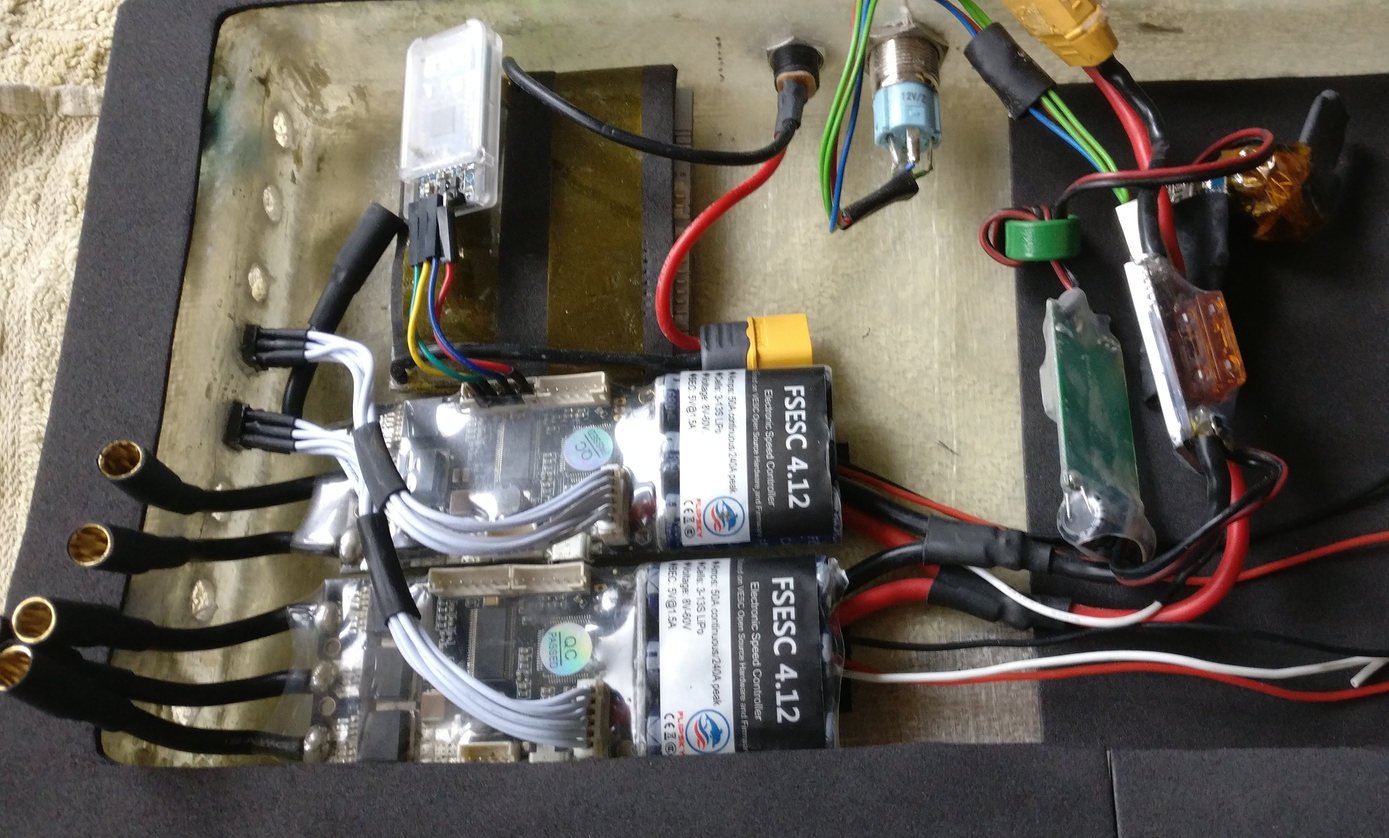
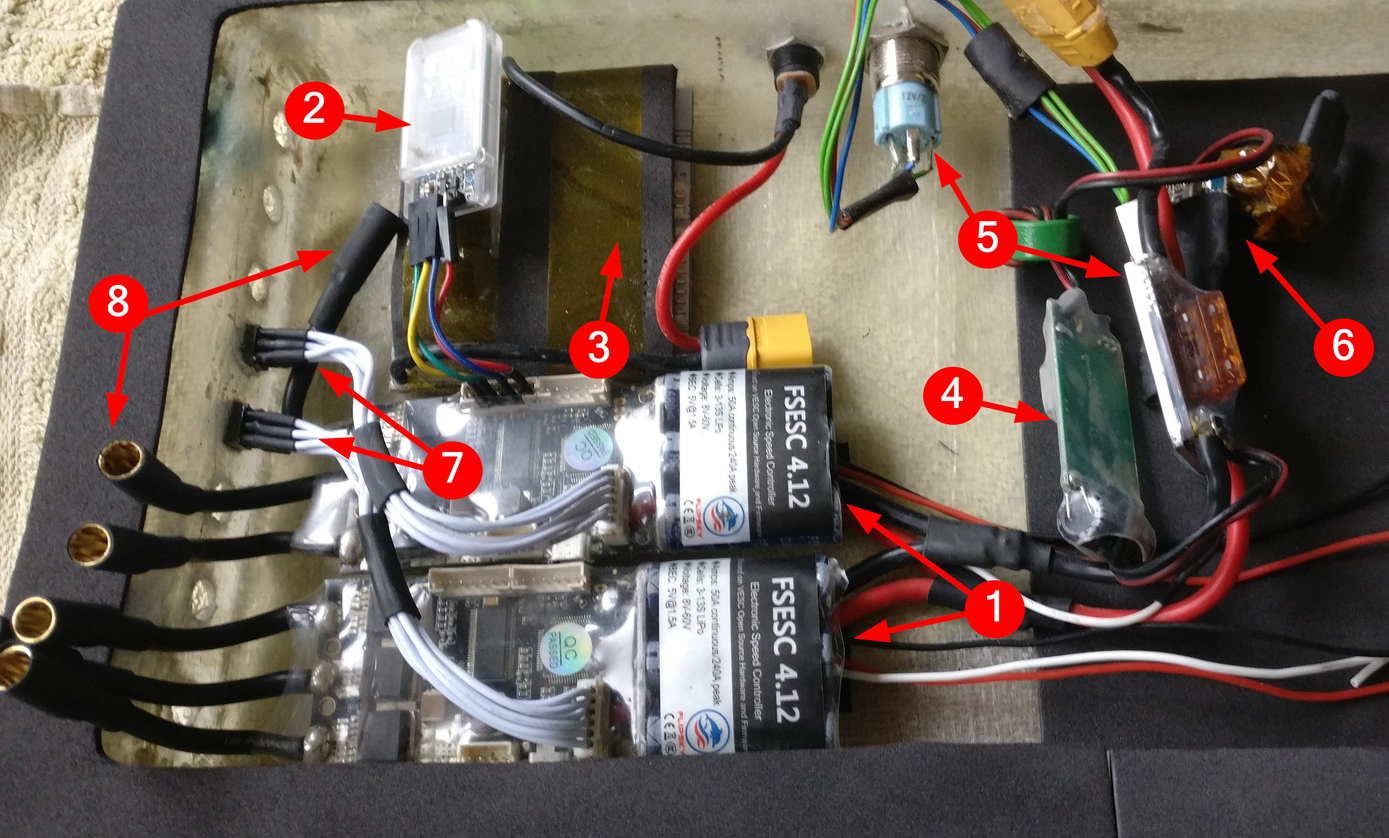
Numbers

diff --git a/chapters/4_mechanics.tex b/chapters/4_mechanics.tex
@@ -61,13 +61,19 @@
 		Aufgrund des quadratischen Zusammenhangs des Strömungswiderstands mit der Geschwindigkeit nach \cref{eq:air drag} ist der \(F_\text{Ström}\) zuzuordnende Anteil im zweiten Fall zu vernachlässigen.
 
 		Um abzuschätzen, bei welcher Geschwindigkeit der Strömungswiderstand gegenüber dem Rollwiderstand an Relevanz gewinnt, ist in \cref{fig:Froll vs Fdrag} das Verhältnis beider Kräfte über der Geschwindigkeit in~\unit{\kilo\metre\per\hour} aufgetragen.
+		Der Kurvenverlauf folgt der Gleichung
+		\begin{align}
+			\frac{F_\text{Ström}}{F_\text{Roll}}(v) = \frac{c_\text{Ström} \; \rho \; A}{2m \; g \; c_\text{Roll}} v^2
+			\label{eq:F_drag F_roll ratio over speed}
+		\end{align}
+		mit verwendeten Werten wie aus \cref{tab:drag roll values} zu entnehmen~\cites{GESTIS.Luft}{air.drag.human.body.VANINGENSCHENAU1982}{material.advances.skateboarding.WATERMAN1978}.
+
 		Ab einer Geschwindigkeit von etwa \qty{42}{\kilo\metre\per\hour} beginnt der Strömungswiderstand zu dominieren und es wird die Annahme getroffen, dass bei \qty{10}{\kilo\metre\per\hour}, was etwa doppelter Schrittgeschwindigkeit\footnote{\hspace{1mm} ``Schrittgeschwindigkeit'' ist kein wohl definierter Begriff. Onlinerecherchen lieferten Werte im Bereich \qtyrange{5}{7}{\kilo\metre\per\hour}.} entspricht, der Beitrag des Strömungswiderstandes nahezu verschwindet.
-		Die verwendeten Werte sind \cref{tab:drag roll values} zu entnehmen~\cites{GESTIS.Luft}{air.drag.human.body.VANINGENSCHENAU1982}{material.advances.skateboarding.WATERMAN1978}.
 
 		% Darüber hinaus sind elektrische Verluste etwa im Serienwiderstand der Batterie, in der Leistungselektronik und bei der Ummagnetisierung der Phasenwicklungen im Motor zu berücksichtigen.
 		% Da diese im Einzelnen jedoch nur schwer quantifiziert werden können, sollen sie sich im Wirkungsgrad \(\eta\)\nomenclature[G]{\(\eta\)}{Wirkungsgrad\nomunit{1}}, der das Verhältnis aus abgerufener elektrischer Leistung zu umgesetzter mechanischer Leistung bildet, widerspiegeln.\par\medskip
 		%
-		\newpage
+		% \newpage
 		\begin{figure}[h]
 			\centering
 			\includesvg[width=\textwidth, inkscapelatex=false]{Calc/Fdrag-Froll_vs_velocity}
@@ -101,8 +107,10 @@
 					\toprule
 					Größe\hspace{1cm}								& Wert\\ \midrule
 					\(A\)\tnote{a}\hspace{1cm}						& \qty{0,293}{\metre\squared}\\
+					\(g\)											& \qty{9,81}{\metre\per\second\squared}\\
 					\(c_\text{Roll}\)\hspace{1cm}					& \num{0,022}\\
 					\(c_\text{Ström}\)\tnote{a}\hspace{1cm}			& \num{0,872}\\
+					\(m\)											& \qty{100}{\kilo\gram}\\
 					\(\rho\)\tnote{b}\hspace{1cm}					& \qty{1,293}{\kilo\gram\per\metre\cubed}\\ \bottomrule
 				\end{tabular}
 				\begin{tablenotes}\footnotesize

diff --git a/chapters/2_conception.tex b/chapters/2_conception.tex
@@ -108,7 +108,7 @@
 			\begin{figure}[h]
 				\centering
 				\includegraphics[width=.9\textwidth]{Footage/Pictures/Electronics.jpg}
-				\caption[Eingesetzte ESC]{Unten im Bild die beiden eingesetzten ESC vom Typ \textsc{FSESC 4.12}. Weiterhin im Bild zu sehen oben links ein HC-06 Bluetooth Modul, darunter das Batteriemanagementsystem. Auf der rechten Seite im Bild von links nach rechts: Spannungsregler, elektronischer Schalter und der Funkempfänger für die Steuersignale.}\label{fig:electronics}
+				\caption[Eingesetzte ESC]{(1) die eingesetzten ESC vom Typ \textsc{FSESC 4.12}, (2) ein HC-06 Bluetooth Modul, (3) passives Batteriemanagementsystem zur Regelung des Ladestromes, (4) \qty{5}{\volt}~Spannungsregler, (5) elektronischer Ein-Aus-Schalter mit zwei parallel geschalteten \qty{80}{\ampere} Sicherungen, (6) Arduino Nano mit NRF24 Transceiver, (7) Steckverbinder der Hall-Effekt-Sensoren, (8) Phasenanschlüsse der Motoren.}\label{fig:electronics}
 			\end{figure}
 			Als solche schränken sie die Auswahl der Motortypen zwar nicht exklusiv auf BLDCs ein --~Gleichstrommotoren mit Schleifkontakt sind auch denkbar -- allerdings bieten sie in Kombination mit BLDCs einen deutlich höheren Funktionsumfang.
 			Darüber hinaus sind BLDC gegenüber Gleichstrommotoren mit Schleifkontakten effizienter, bieten eine höhere Leistungsdichte, sind bauartbedingt unempfindlich gegenüber Nässe und quasi-wartungsfrei\footnote{\hspace{1mm} Je nach Art der Lagerung. Dies betrifft jedoch ausschließlich die mechanischen Komponenten der Motoren.}.

diff --git a/pre-page-layout.tex b/pre-page-layout.tex
@@ -16,9 +16,10 @@
 \setcounter{page}{1}
 \setlength{\parindent}{0.5cm}
 \setlength{\headsep}{20pt}
-%------------------ Schrifttyp in der Kopf- und Fusszeilen
+%------------------ Kopf- und Fusszeilen
 \setkomafont{pageheadfoot}{\footnotesize\sffamily}
 % \renewcommand{\footnote}[1]{\footnote{\quad#1}}
+\counterwithout{footnote}{chapter}
 %------------------------------------------------------------------------
 % Linien in der Kopf- und Fußzeile
 %\renewcommand{\headrulewidth}{0.0pt}   %Linie in der Kopfzeile mit 0.0pt keine Linie
